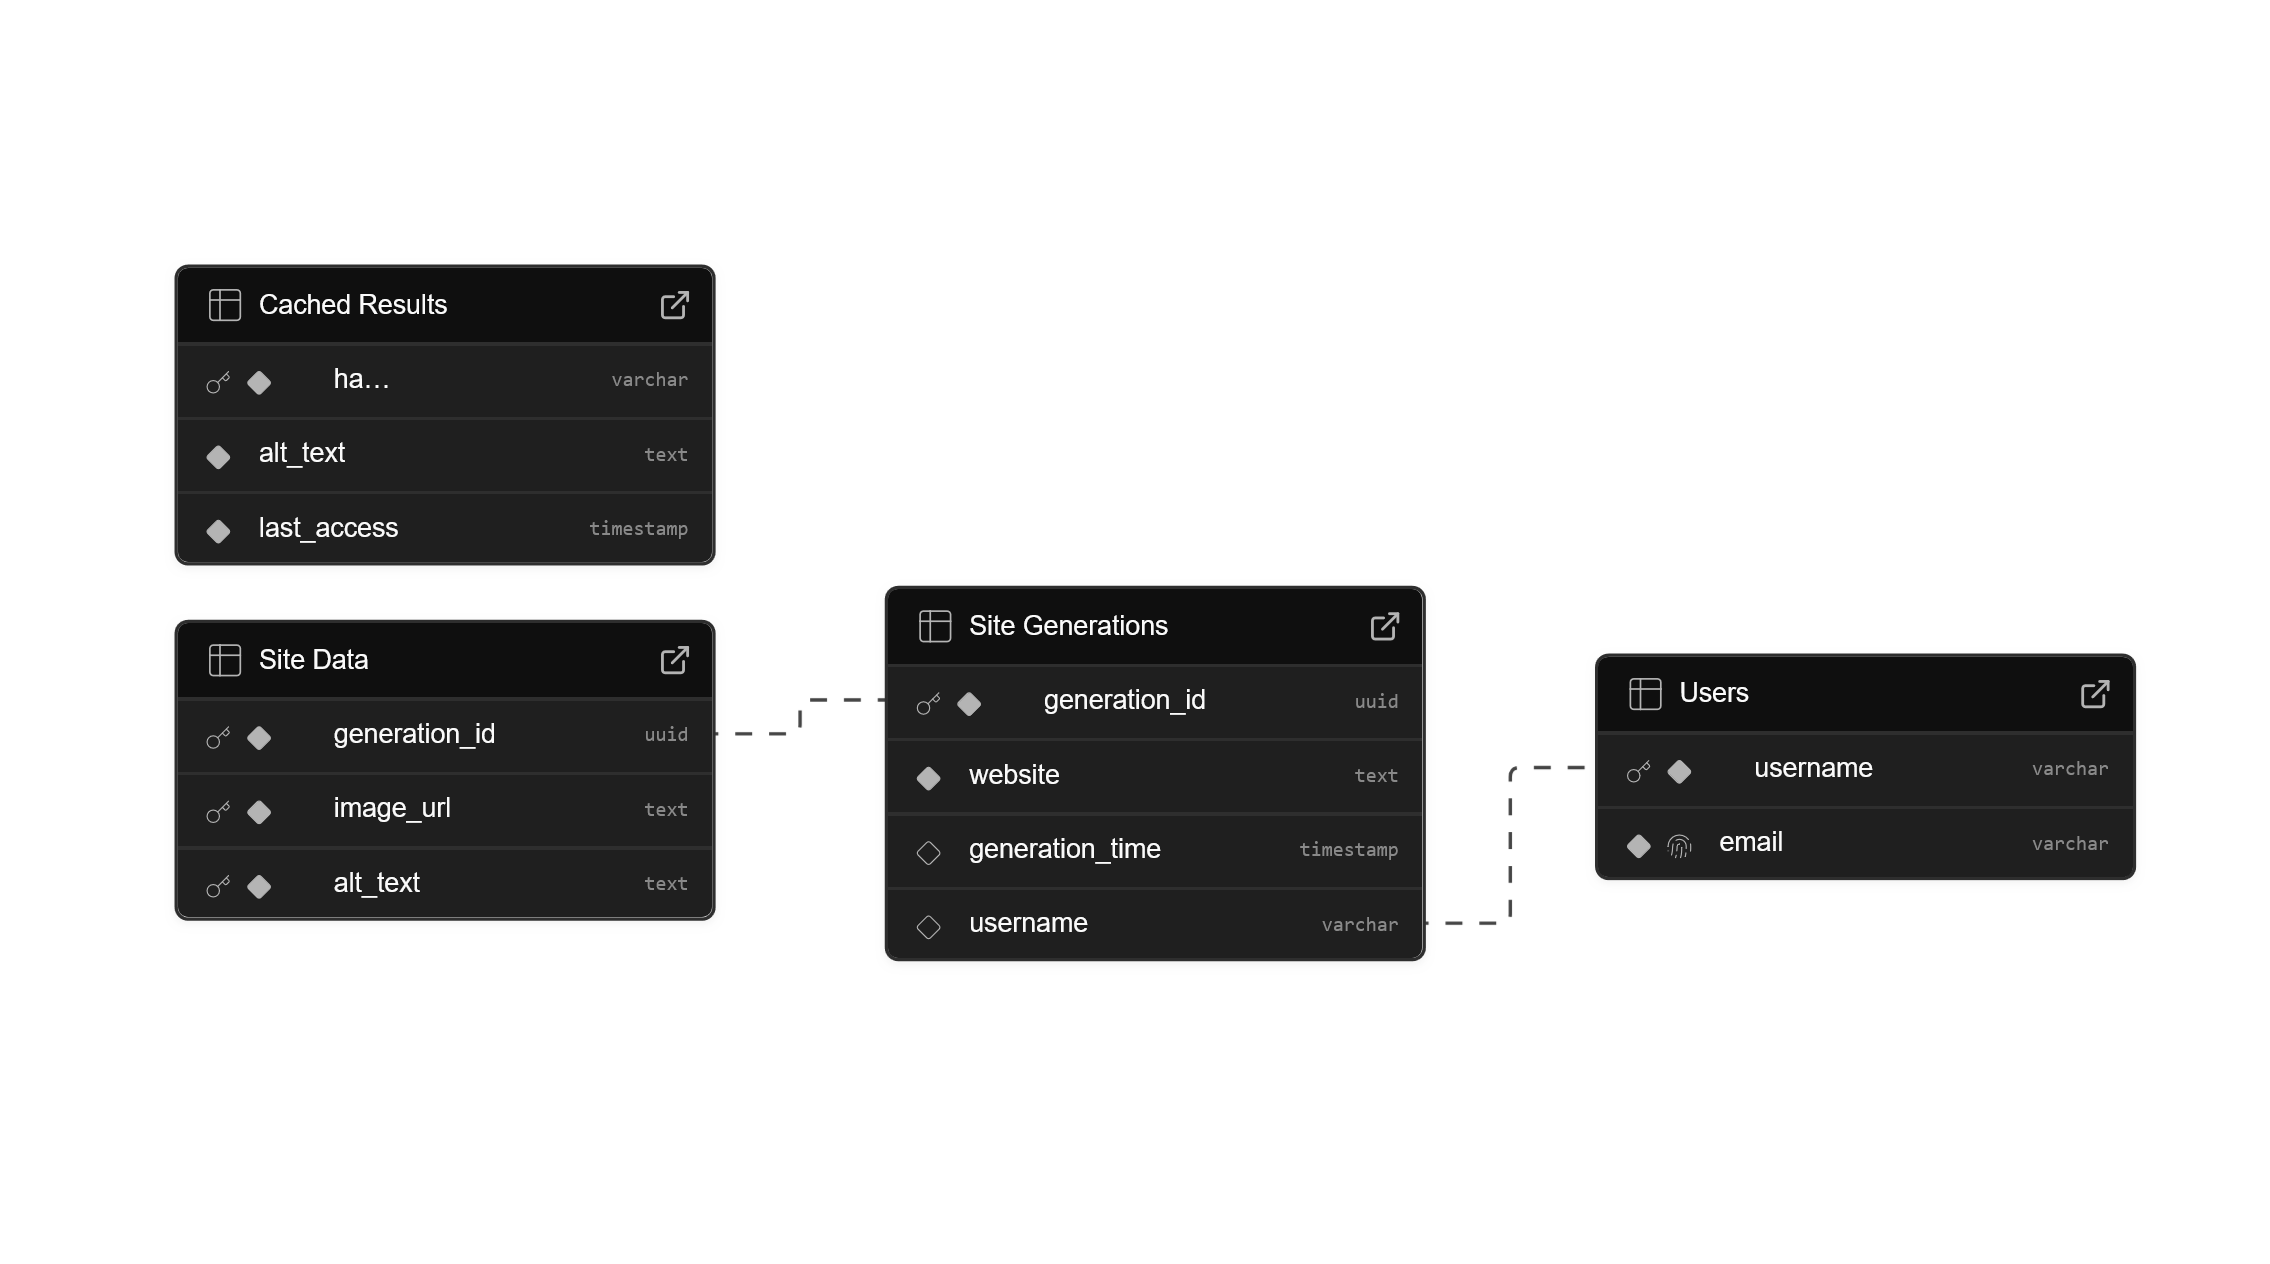
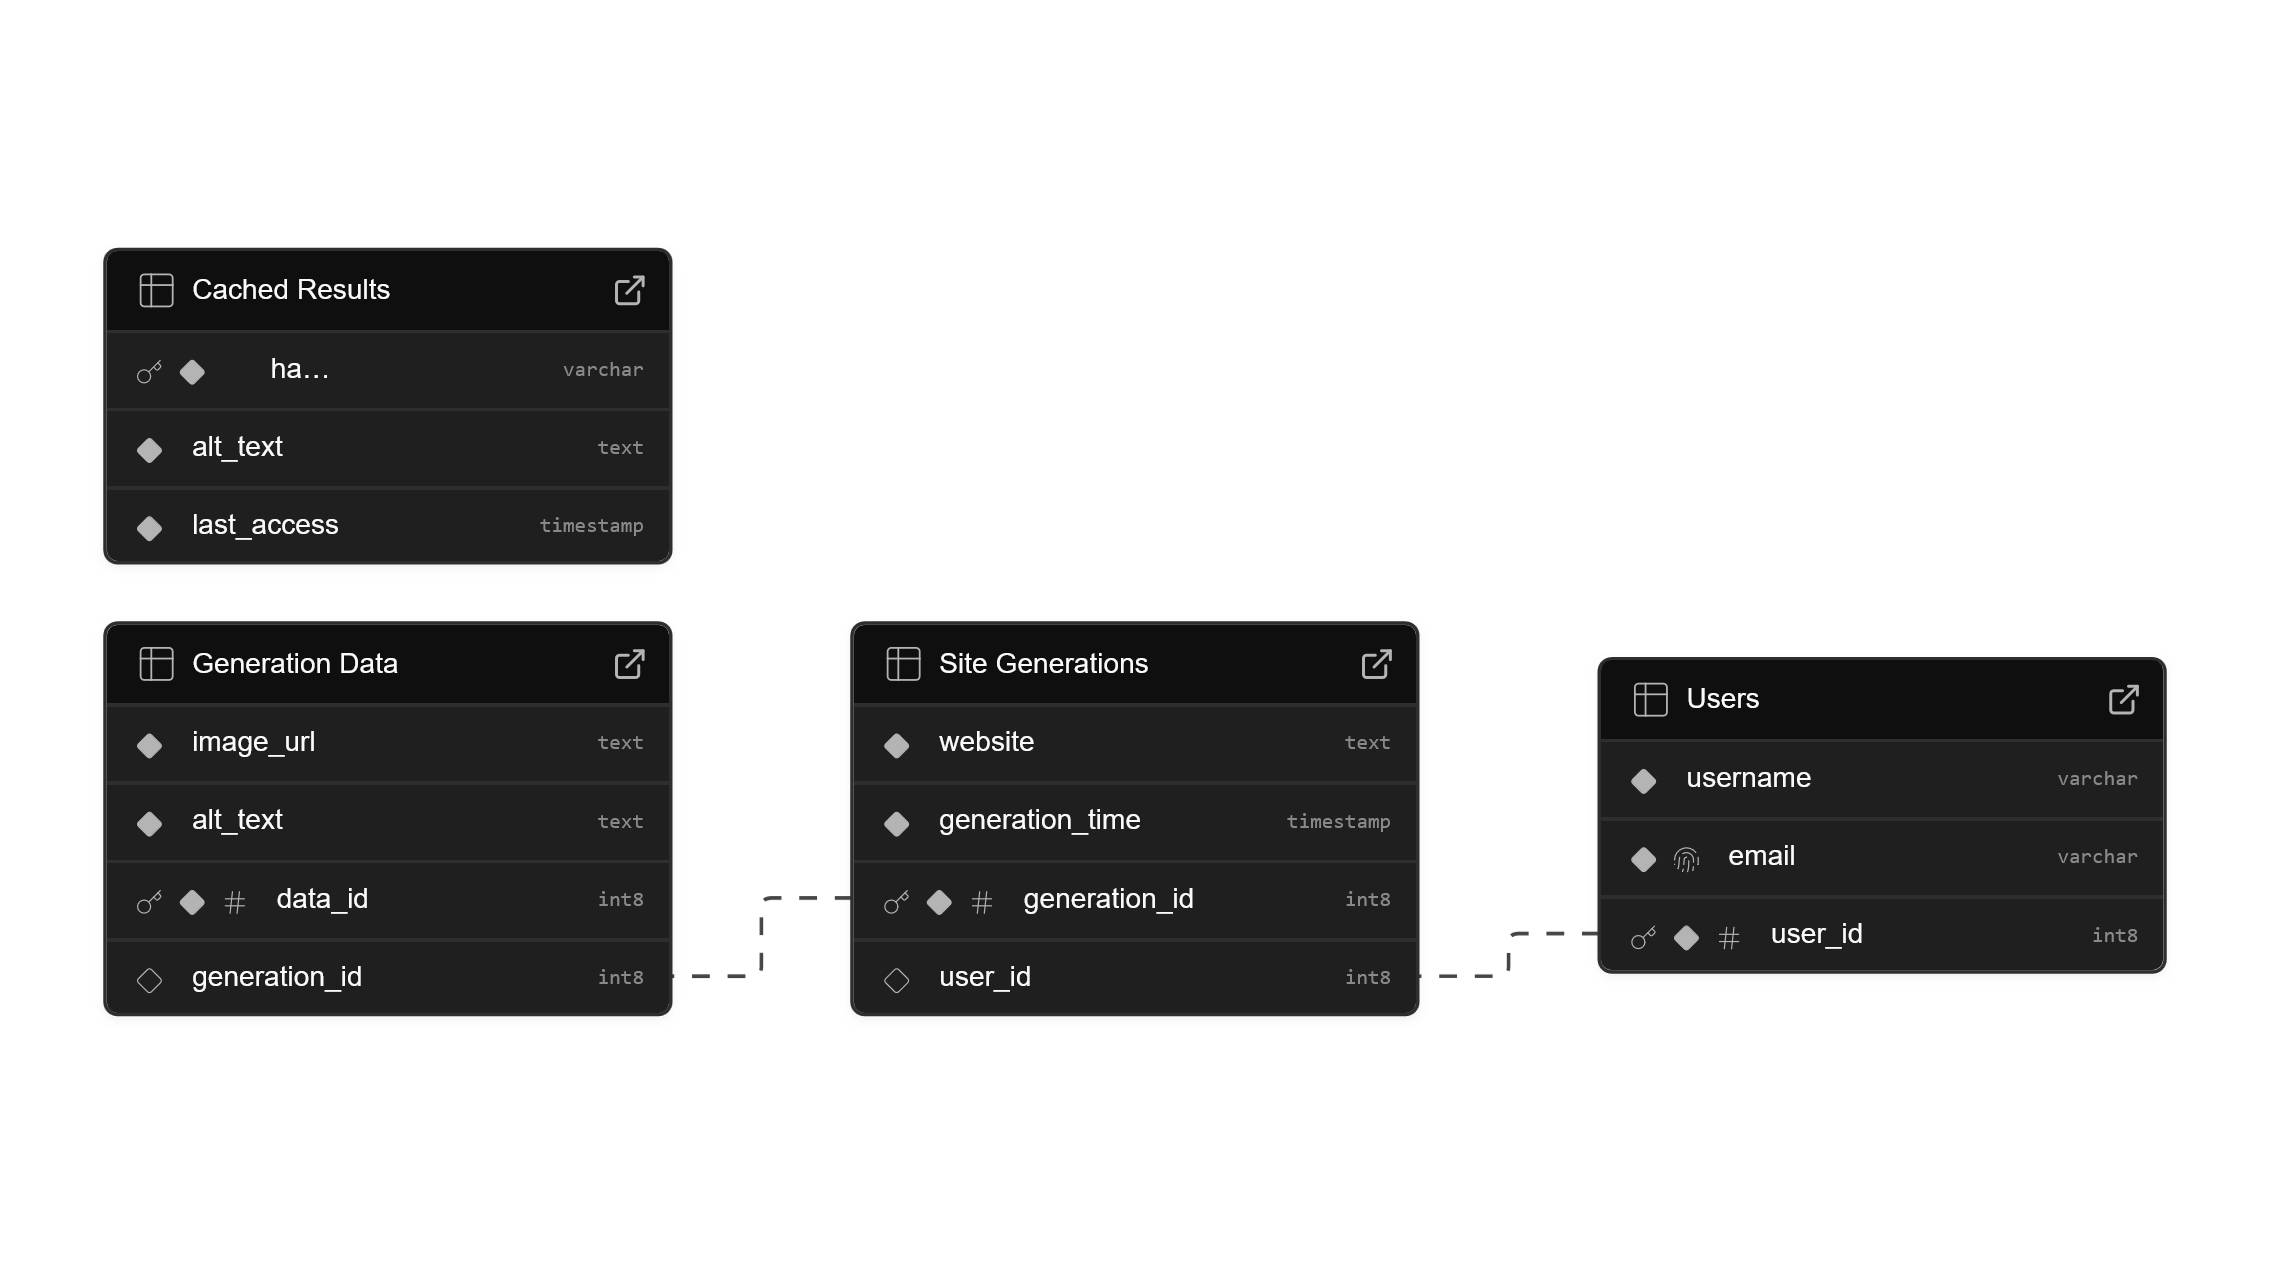
Changed database to use int8 IDs as primary keys and made changes in the code to reflect that

diff --git a/app/app_code/user_info.py b/app/app_code/user_info.py
@@ -15,41 +15,40 @@ class UserInfo:
         # Initializes Supabase Connection
         self._supabase: Client = create_client(supabase_url, supabase_key)
 
-        # Store user information
-        self.username = username
-        self.email = email
-
         # Adds user to the database if they do not exist
-        self._verify_user()
+        self._user_id = self._get_user_id(username, email)
 
 
     '''Checks if User exists in the database and adds them if not'''
-    def _verify_user(self):
+    def _get_user_id(self, username, email):
         # Attempt to read from database
         response = (
             self._supabase.table("Users")
             .select("*")
-            .eq("username", self.username)
+            .eq("email", email)
             .execute()
             )
 
-        # Updates the timestamp of the value if found in database
+        # Returns the user ID if found in the database
         if len(response.data):
-            return
+            return int(response.data[0]["user_id"])
         
         # Add to database
         else:
             try:
                 response = (
                     self._supabase.table("Users")
-                    .insert({"username": self.username,
-                            "email": self.email
+                    .insert({"username": username,
+                            "email": email
                             })
                     .execute()
                     )
                 
+                # Returns the user ID
+                return int(response.data[0]["user_id"])
+                
             except Exception as e:
-                print(f"Error adding tuple to the database: username: {self.username}, email: {self.email}, ERROR: {e}")
+                print(f"Error adding tuple to the database: username: {username}, email: {email}, ERROR: {e}")
 
 
     '''Display past generation options for a user'''
@@ -58,7 +57,7 @@ class UserInfo:
         response = (
             self._supabase.table("Site Generations")
             .select("*")
-            .eq("username", self.username)
+            .eq("user_id", self._user_id)
             .execute()
             )
         
@@ -83,6 +82,7 @@ class UserInfo:
             self._supabase.table("Generation Data")
             .select("*")
             .eq("generation_id", generation_id)
+            .order("data_id")
             .execute()
             )
         
@@ -94,6 +94,7 @@ class UserInfo:
             generation_data.append((
                 data["image_url"],
                 data["alt_text"],
+                data["data_id"]
             ))
 
         return generation_data
@@ -106,15 +107,15 @@ class UserInfo:
             response = (
                 self._supabase.table("Site Generations")
                 .insert({"website": website,
-                        "username": self.username
+                        "user_id": self._user_id
                         })
                 .execute()
                 )
             
         except Exception as e:
-            print(f"Error adding tuple to the database: website: {website}, username: {self.username}, ERROR: {e}")
+            print(f"Error adding tuple to the database: website: {website}, username: {self._user_id}, ERROR: {e}")
 
-        # Store UUID for the generation
+        # Store ID for the generation
         generation_id = response[0]["generation_id"]
 
         # Add each data tuple to the Generation Data table
